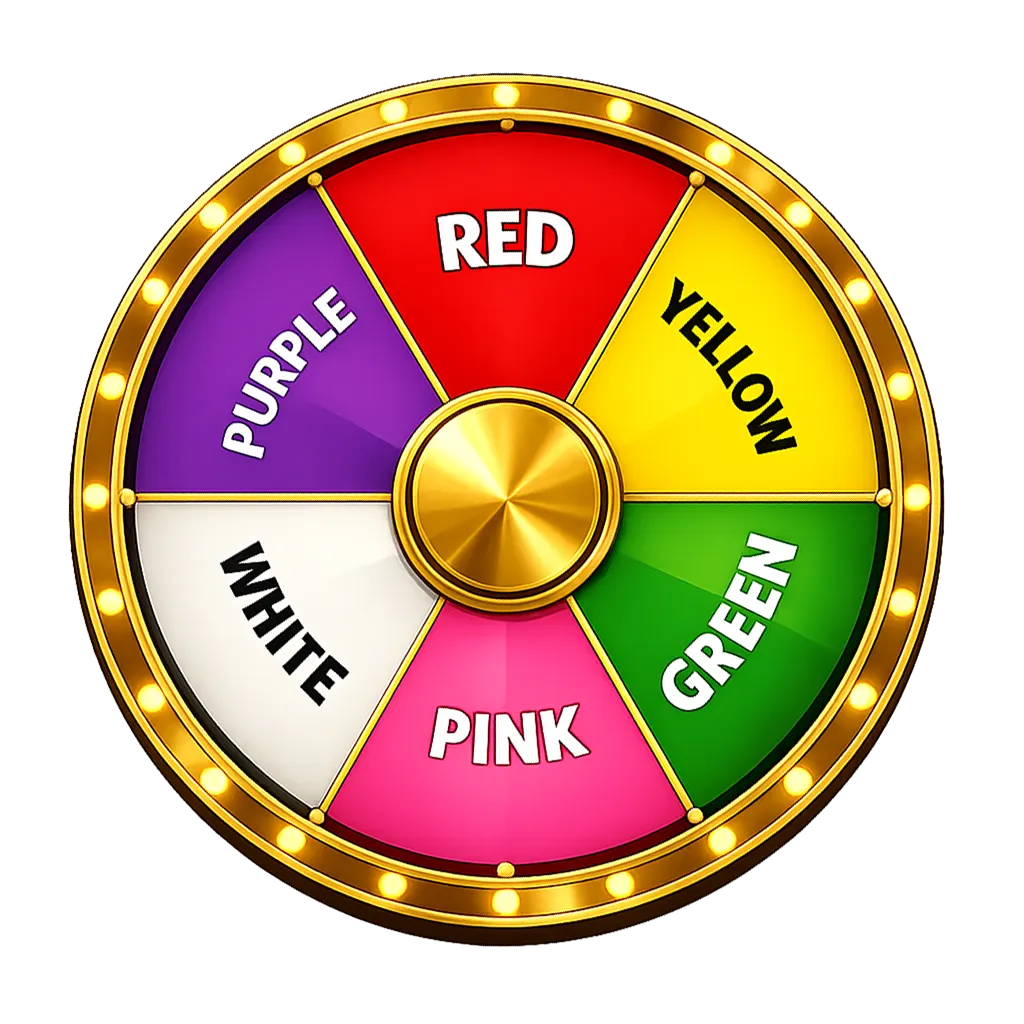
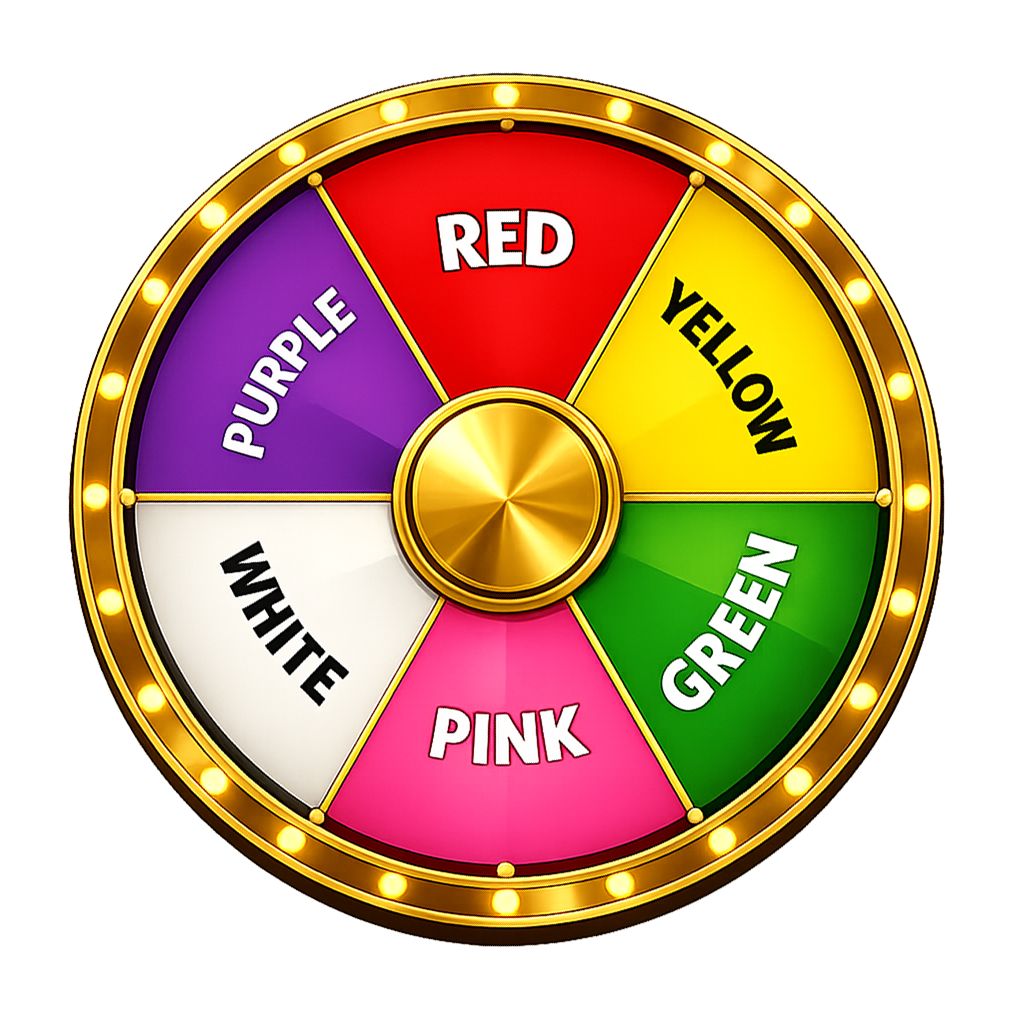
corrected image graphics

diff --git a/server.js b/server.js
@@ -8,7 +8,7 @@ app.use(express.json());
 app.use(express.static("public"));
 
 // 🎨 Colors (6 segments) - UPDATED ORDER
-const colors = ["Purple", "White", "Pink", "Green", "Yellow", "Red"];
+const colors = ["Red", "Purple", "White", "Pink", "Green", "Yellow"];
 
 const ADMIN_PASSWORD = "admin123";
 
